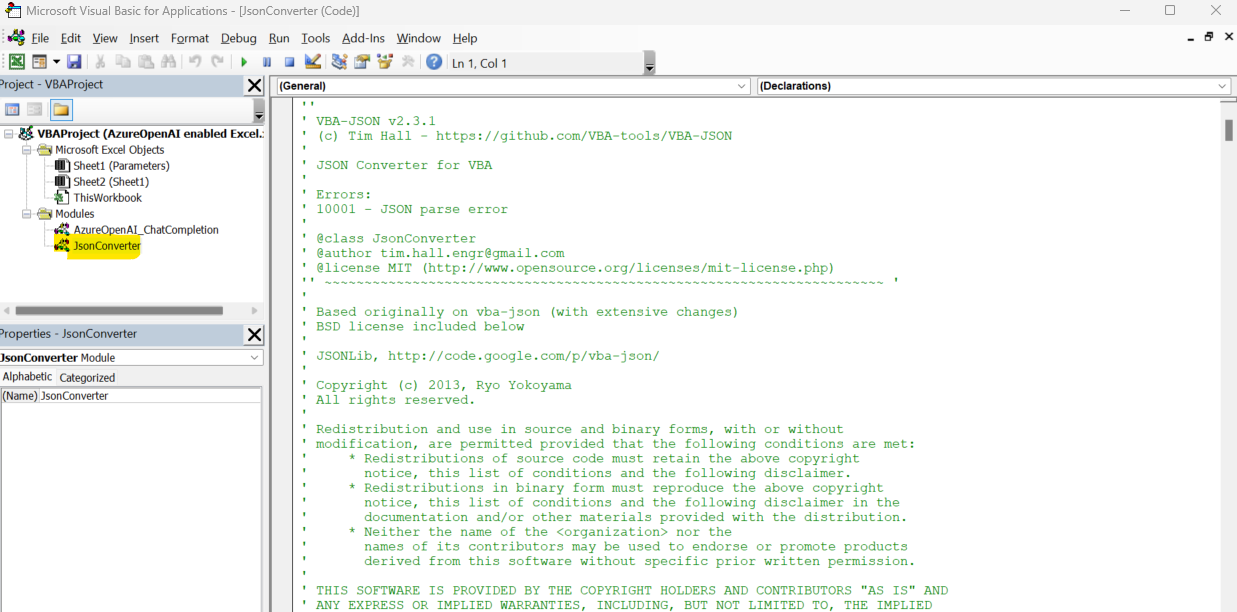
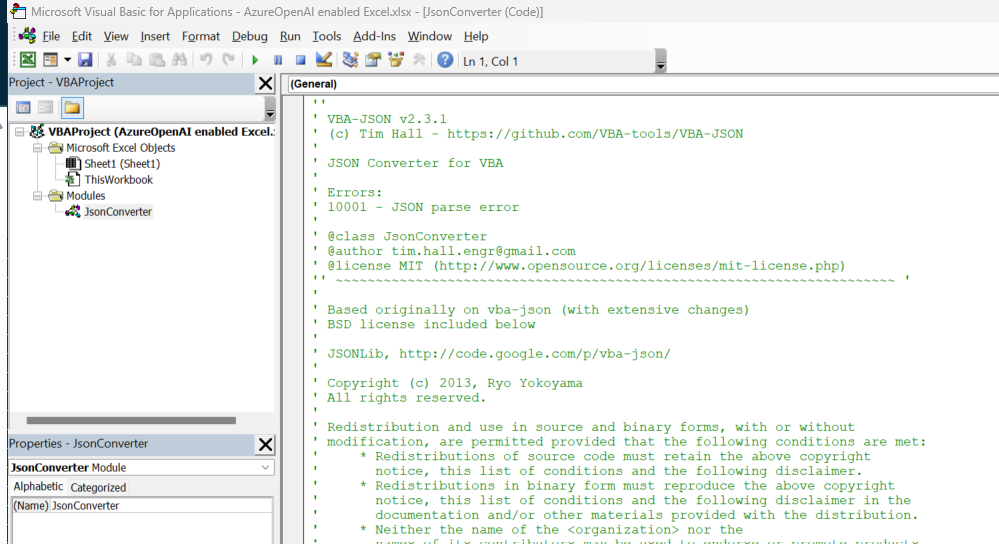
adapt pictures

Changed region(s): [[0.0, 0.0, 1.0, 1.0], [0.962, 0.0312, 1.0, 0.0625]]

diff --git a/README.md b/README.md
@@ -12,6 +12,13 @@ This repo is about adding a custom function in Excel file to enable API call to 
 
 1. Open the Excel file you downloaded and enable the “developer” menu. This can be done in File → Options → Customize Ribbon:
 ![enableDeveloperTab](images/enableDeveloperTab.png)
+
+2. Open VBA editor and add 2 references intot the VBAProject "Tools":
+
+- Microsoft XML, v6.0
+- Microsoft Scripting Runtime
+![goToToolsReferences](images/addToolReference1.png)
+![Alt text](images/addToolReference2.png)
 2. Add the JsonConverter module to be able to parse the JSON response from the Azure OpenAI API:
    - Go to https://github.com/VBA-tools/VBA-JSON/releases and download the latest zip file version
    ![downloadJsonConverter](images/downloadJsonConverterZipFile.png)
@@ -21,12 +28,14 @@ This repo is about adding a custom function in Excel file to enable API call to 
    ![access VBA editor](images/accessVBAeditor.png)
    - In Excel's VBA editor, import the JsonConverter.bas file as a module
    ![importJsonConverterModule](images/importJsonConverterModule.png)
+   ![importJsonConverterModule2](images/importJsonConverterModule2.png)
    ![finalState](images/finalStateOfImportedJsonConverterModule.png)
-3. Insert a new module and paste the code below:
+3. Insert a new module and paste the code below to create the function **AOAIGPT**:
 
 ![insertNewModule](images/insertNewModuleForCustomFunction.png)
 
 ```VBA
+' This function takes one string input as the user prompt
 Function AOAIGPT(userPrompt As String) As String
 
 Dim apiKey As String
